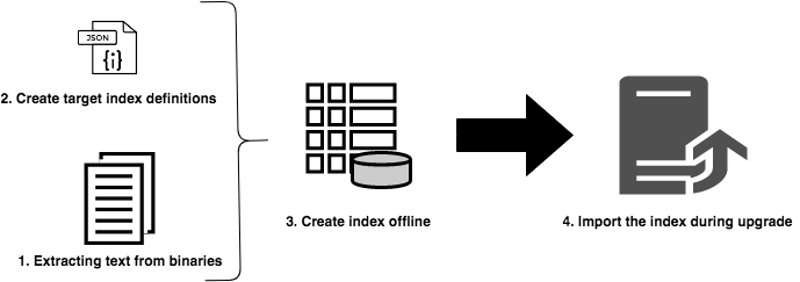
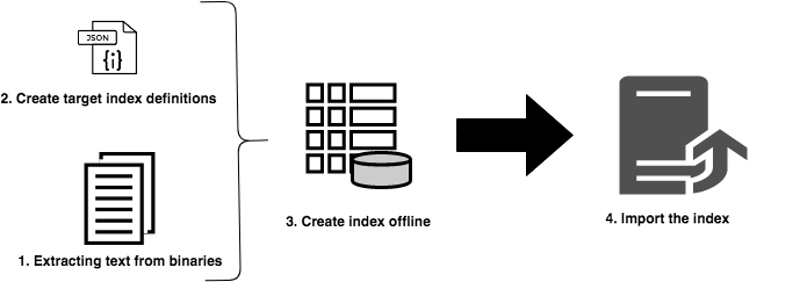
CQDOC-23065: Update the documentation related to Oak reindexing.

Changed region(s): [[0.6875, 0.7376, 1.0, 0.8227]]

diff --git a/help/sites-deploying/offline-reindexing.md b/help/sites-deploying/offline-reindexing.md
@@ -1,49 +1,47 @@
 ---
-title: Using Offline Reindexing To Reduce Downtime During an Upgrade
-description: Learn how to use offline reindexing methodology to reduce the system downtime when performing an AEM upgrade.
+title: Offline Reindexing for AEM
+description: Learn how to use offline reindexing methodology to improve system performance and reduce downtime when reindexing AEM repositories.
 contentOwner: sarchiz
 products: SG_EXPERIENCEMANAGER/6.5/SITES
-topic-tags: upgrading
+topic-tags: indexing, performance
 content-type: reference
-feature: Upgrading
+feature: Indexing
 solution: Experience Manager, Experience Manager Sites
 role: Admin
 exl-id: 0001c874-7468-4750-a377-03156674f4b9
 ---
-# Using Offline Reindexing To Reduce Downtime During an Upgrade {#offline-reindexing-to-reduce-downtime-during-upgrades}
+# Offline Reindexing for AEM {#offline-reindexing-for-aem}
 
 ## Introduction {#introduction}
 
-One of the key challenges in upgrading Adobe Experience Manager is the downtime associated with the author environment when an in-place upgrade is performed. Content authors will not be able to access the environment during an upgrade. Therefore it is desirable to minimize the amount of time it takes to perform the upgrade. For large repositories, especially AEM Assets projects, which typically have large data stores and a high level of asset uploads per hour, reindexing of Oak indexes takes a significant percentage of the upgrade time.
+For AEM Assets projects, which typically have large data stores and a high level of asset uploads, reindexing of Oak indexes can take a significant amount of time.
 
-This section describes how to use the Oak-run tool to reindex the repository **before** performing the upgrade, thus reducing the amount of downtime during the actual upgrade. The steps presented can be applied to [Lucene](https://jackrabbit.apache.org/oak/docs/query/lucene.html) indexes for versions AEM 6.4 and higher.
+This section describes how to use the Oak-run tool to perform offline reindexing. The steps presented can be applied to [Lucene](https://jackrabbit.apache.org/oak/docs/query/lucene.html) indexes for versions AEM 6.4 and higher.
 
 ## Overview {#overview}
 
-New versions of the AEM introduce changes to Oak index definitions as the feature set is expanded. Changes to the Oak indexes force reindexing when upgrading the AEM instance. Reindexing is expensive for asset deployments as text in assets (for example, text in pdf file) is extracted and indexed. With MongoMK repositories, data is persisted over the network, further increasing the amount of time reindexing takes.
-
-The problem most customers are facing during an upgrade is reducing the downtime window. The solution is to **skip** the reindexing activity during the upgrade. This can be achieved by creating the new indeces **prior** to performing the upgrade, then simply importing them during the upgrade.
+AEM repositories often require reindexing due to various reasons such as index definition changes, performance optimization, or after significant content changes. Reindexing is expensive for asset deployments as text in assets (for example, text in PDF files) is extracted and indexed. With MongoMK repositories, data is persisted over the network, further increasing the amount of time reindexing takes. The solution is to perform reindexing **offline** using the Oak-run tool, then import the pre-built indexes into the running AEM instance. This approach minimizes reindexing time and allows for better resource management.
 
 ## Approach {#approach}
 
 ![offline-reindexing-upgrade-text-extraction](assets/offline-reindexing-upgrade-process.png)
 
-The idea is to create the index before the upgrade, against the index definitions of the target AEM version using the [Oak-run](/help/sites-deploying/indexing-via-the-oak-run-jar.md) tool. The above diagram shows the offline reindexing approach.
+The idea is to create the indexes offline using the [Oak-run](/help/sites-deploying/indexing-via-the-oak-run-jar.md) tool, then import them into the running AEM instance. The above diagram shows the offline reindexing approach.
 
 In addition, this is the order of the steps as described in the approach:
 
 1. Text from binaries is extracted first
-2. Target index definitions are created
+2. Index definitions are created or updated
 3. Offline indexes are created
-4. The indexes are then imported during the upgrade process
+4. The indexes are then imported into the running AEM instance
 
 ### Text Extraction {#text-extraction}
 
-To enable full indexing in AEM, text from binaries such as PDF is extracted and added to the index. This is usually an expensive step in the indexing process. Text extraction is an optimization step advocated especially for reindexing asset repositories as they stores large number of binaries.
+To enable full indexing in AEM, text from binaries such as PDF is extracted and added to the index. This is usually an expensive step in the indexing process. Text extraction is an optimization step advocated especially for reindexing asset repositories as they store large numbers of binaries.
 
 ![offline-reindexing-upgrade-text-extraction](assets/offline-reindexing-upgrade-text-extraction.png)
 
-Text from binaries stored in the system can be extracted using thge oak-run tool with the tika library. A clone of the production systems can be taken before upgrade and can be used for this text extraction process. This process then creates the text store, by going through the following steps:
+Text from binaries stored in the system can be extracted using the oak-run tool with the tika library. A clone of the production system can be taken and used for this text extraction process. This process then creates the text store, by going through the following steps:
 
 **1. Traverse the repository and gather the details of binaries**
 
@@ -55,7 +53,7 @@ Execute the below command from the directory where you wish to create the index 
 java java -jar oak-run.jar tika <nodestore path> --fds-path <datastore path> --data-file text-extraction/oak-binary-stats.csv --generate
 ```
 
-Where `nodestore path` is the `mongo_ur` or `crx-quickstart/repository/segmentstore/`
+Where `nodestore path` is the `mongo_uri` or `crx-quickstart/repository/segmentstore/`
 
 Use the `--fake-ds-path=temp` parameter instead of `–fds-path` to speed up the process.
 
@@ -69,7 +67,7 @@ You can dump the existing index data using the following command:
 java -jar oak-run.jar index <nodestore path> --fds-path=<datastore path> --index-dump
 ```
 
-Where `nodestore path` is the `mongo_ur` or `crx-quickstart/repository/segmentstore/`
+Where `nodestore path` is the `mongo_uri` or `crx-quickstart/repository/segmentstore/`
 
 Then, use the above index dump to populate the store:
 
@@ -82,12 +80,15 @@ Where `oak-index-name` is the name of the full text index, for example, "lucene"
 **3. Run the text extraction process using the tika library for the binaries missed out in the above step**
 
 ```
-java -cp oak-run.jar:tika-app-1.21.jar org.apache.jackrabbit.oak.run.Main tika --data-file text-extraction/oak-binary-stats.csv --store-path text-extraction/store --fds-path <datastore path> extract
+java -cp oak-run.jar:tika-app-*.jar org.apache.jackrabbit.oak.run.Main tika --data-file text-extraction/oak-binary-stats.csv --store-path text-extraction/store --fds-path <datastore path> extract
 ```
+>[!NOTE]
+>
+>Use the same version of Tika as being used in AEM.
 
 Where `datastore path` is the path to the binary data store.
 
-The created text store can be updated and reused for reindexing scenarios in the future.
+The created text store can be updated and reused for future reindexing scenarios.
 
 For more details around the text extraction process, see the [Oak-run documentation](https://jackrabbit.apache.org/oak/docs/query/pre-extract-text.html).
 
@@ -95,15 +96,15 @@ For more details around the text extraction process, see the [Oak-run documentat
 
 ![offline-reindexing-upgrade-offline-reindexing](assets/offline-reindexing-upgrade-offline-reindexing.png)
 
-Create the Lucene index offline before the upgrade. If using MongoMK, it is recommended to run it directly on one of the MongoMk nodes, as this avoids network overhead.
+Create the Lucene index offline. If using MongoMK, it is recommended to run it directly on one of the MongoMK nodes, as this avoids network overhead.
 
-To create the index offline, follow the below steps:
+To create the index offline, follow the steps below:
 
-**1. Generate Oak Lucene index definitions for the target AEM version**
+**1. Generate Oak Lucene index definitions**
 
-Dump the existing index definitions. Index definitions which underwent change were generated using the Adobe Granite repository bundle of the target AEM version and oak-run.
+Dump the existing index definitions. Index definitions can be generated using the Adobe Granite repository bundle and oak-run.
 
-To dump the index definition from the **source** AEM instance, run this command: 
+To dump the index definition from the AEM instance, run this command: 
 
 >[!NOTE]
 >
@@ -113,9 +114,9 @@ To dump the index definition from the **source** AEM instance, run this command:
 java -jar oak-run.jar index --fds-path <datastore path> <nodestore path> --index-definitions
 ```
 
-Where `datastore path` and `nodestore path` are from the **source** AEM instance.
+Where `datastore path` and `nodestore path` are from the AEM instance.
 
-Then, generate index definitions from the **target** AEM version using target version's Granite repository bundle.
+Then, generate index definitions using the appropriate Granite repository bundle.
 
 ```
 java -cp oak-run.jar:bundle-com.adobe.granite.repository.jar org.apache.jackrabbit.oak.index.IndexDefinitionUpdater --in indexing-definitions_source.json --out merge-index-definitions_target.json --initializer com.adobe.granite.repository.impl.GraniteContent
@@ -125,11 +126,11 @@ java -cp oak-run.jar:bundle-com.adobe.granite.repository.jar org.apache.jackrabb
 >
 >The above index definition creation process is supported only from the `oak-run-1.12.0` version onwards. Targeting is done using the Granite repository bundle `com.adobe.granite.repository-x.x.xx.jar`.
 
-The above steps create a JSON file called `merge-index-definitions_target.json` which is the index definition.
+The above steps create a JSON file called `merge-index-definitions_target.json` which contains the index definition.
 
 **2. Create a checkpoint in the repository**
 
-Create a checkpoint in the production **source** AEM instance with a long lifetime. This should be done before cloning the repository.
+Create a checkpoint in the production AEM instance with a long lifetime. This should be done before cloning the repository.
 
 Via JMX console located at `http://serveraddress:serverport/system/console/jmx`, go to `CheckpointMBean` and create a checkpoint with a long enough lifetime (for example, 200 days). For this, invoke `CheckpointMBean#createCheckpoint` with `17280000000` as the argument for the lifetime duration in milliseconds.
 
@@ -141,9 +142,9 @@ Once this is done, copy the newly created checkpoint id and validate the lifetim
 
 For more details, consult [checkpoint creation](https://jackrabbit.apache.org/oak/docs/query/oak-run-indexing.html#out-of-band-create-checkpoint) from the Oak documentation.
 
-**Perform offline indexing for the generated index definitions**
+**3. Perform offline indexing for the generated index definitions**
 
-Lucene reindexing can be done offline using oak-run. This process creates index data in the disk under `indexing-result/indexes`. It does **not** write to the repository and thus does not require stopping the running AEM instance. The created text store is fed into this process:
+Lucene reindexing can be done offline using oak-run. This process creates index data on disk under `indexing-result/indexes`. It does **not** write to the repository and thus does not require stopping the running AEM instance. The created text store is fed into this process:
 
 ```
 java -Doak.indexer.memLimitInMB=500 -jar oak-run.jar index <nodestore path> --reindex --doc-traversal-mode --checkpoint <checkpoint> --fds-path <datastore path> --index-definitions-file merge-index-definitions_target.json --pre-extracted-text-dir text-extraction/store
@@ -162,7 +163,7 @@ Additional technical details can be found in the [oak-run documentation for inde
 
 ### Importing indexes {#importing-indexes}
 
-With AEM 6.4 and newer versions, AEM has the built in capability to import indexes from disc on startup sequence. The folder `<repository>/indexing-result/indexes` is watched for the presence of index data during startup. You can copy the pre-created index into the above location during the [upgrade process](in-place-upgrade.md#performing-the-upgrade) before starting with the new version of the **target** AEM jar. AEM imports it into the repository and removes the corresponding checkpoint from the system. Thus a reindex is completely avoided.
+With AEM 6.4 and newer versions, AEM has the built-in capability to import indexes from disk during the startup sequence. The folder `<repository>/indexing-result/indexes` is watched for the presence of index data during startup. You can copy the pre-created index into the above location before starting the AEM instance. AEM imports it into the repository and removes the corresponding checkpoint from the system. Thus a reindex is completely avoided.
 
 ## Additional Tips and Troubleshooting {#troubleshooting}
 
@@ -174,7 +175,7 @@ It is recommended to clone the production system and create the offline index us
 
 ### Prepare a Runbook and Trial Run {#prepare-a-runbook-and-trial-run}
 
-It is recommended to prepare a [runbook](/help/sites-deploying/upgrade-planning.md#building-the-upgrade-and-rollback-runbook) and perform a few trials before running the upgrade in production.
+It is recommended to prepare a runbook and perform a few trials before running the reindexing process in production.
 
 ### Doc Traversal Mode With Offline Indexing {#doc-traversal-mode-with-offline-indexing}
 

diff --git a/help/main-toc/TOC.md b/help/main-toc/TOC.md
@@ -1408,6 +1408,7 @@ user-guide-title: AEM 6.5 LTS
         + [Configuring node stores and data stores in AEM 6](/help/sites-deploying/data-store-config.md)
         + [Revision Cleanup](/help/sites-deploying/revision-cleanup.md)
         + [Oak Queries and Indexing](/help/sites-deploying/queries-and-indexing.md)
+        + [Offline Reindexing for AEM](/help/sites-deploying/offline-reindexing)
         + [How to Run AEM with TarMK Cold Standby](/help/sites-deploying/tarmk-cold-standby.md)
         + [Indexing via the Oak-run Jar](/help/sites-deploying/indexing-via-the-oak-run-jar.md)
         + [Oak-run.jar Indexing Use Cases](/help/sites-deploying/oak-run-indexing-usecases.md)
@@ -1439,7 +1440,6 @@ user-guide-title: AEM 6.5 LTS
         + [Backward Compatibility in AEM 6.5 LTS](/help/sites-deploying/backward-compatibility.md)
         + [Upgrade Procedure](/help/sites-deploying/upgrade-procedure.md)
         + [Performing an In-Place Upgrade](/help/sites-deploying/in-place-upgrade.md)
-        + [Using Offline Reindexing To Reduce Downtime During an Upgrade](/help/sites-deploying/upgrade-offline-reindexing.md)
         + [Lazy Content Migration](/help/sites-deploying/lazy-content-migration.md)
         + [Using the CRX2Oak Migration Tool](/help/sites-deploying/using-crx2oak.md)
         + [AEM 6.5 to AEM 6.5 LTS Content Migration Using Oak-upgrade](/help/sites-deploying/aem-65-to-aem-65lts-content-migration-using-oak-upgrade.md)

diff --git a/help/sites-deploying/in-place-upgrade.md b/help/sites-deploying/in-place-upgrade.md
@@ -17,8 +17,6 @@ exl-id: c7351625-b29e-45a7-b966-e7c0f56d4f22
 
 Before executing your upgrade, there are several steps that must be completed. See [Upgrading Code and Customizations](/help/sites-deploying/upgrading-code-and-customizations.md) and [Pre-Upgrade Maintenance Tasks](/help/sites-deploying/pre-upgrade-maintenance-tasks.md) for more information. Additionally, make sure that your system meets the [requirements for AEM 6.5 LTS](/help/sites-deploying/technical-requirements.md) and see [upgrade planning considerations](/help/sites-deploying/upgrade-planning.md) and how [Analyzer](/help/sites-deploying/pattern-detector.md) can help you estimate the complexity.
 
-<!--Finally, the downtime during the upgrade can be significally reduced by indexing the repository **before** performing the upgrade. For more information, see [Using Offline Reindexing To Reduce Downtime During an Upgrade](/help/sites-deploying/upgrade-offline-reindexing.md)-->
-
 ## Migration Prerequisites {#migration-prerequisites}
 
 * **Minimum Required Java version:** Make sure you have Oracle's Java&trade; 17/21 installed on your system.

diff --git a/help/sites-deploying/upgrade-procedure.md b/help/sites-deploying/upgrade-procedure.md
@@ -20,12 +20,6 @@ exl-id: 255ef365-0da5-4bc9-b099-2e3bc67dd25a
 
 When upgrading your AEM environments, you must consider the differences in approach between upgrading author environments or publish environments to minimize downtime for both you authors and end users. This page outlines the high-level procedure for upgrading an AEM topology currently running on a version of AEM 6.x. Because the process differs between author and publish tiers and Mongo and TarMK based deployments, each tier and microkernel has been listed in a separate section. When executing your deployment, Adobe recommends first upgrading your author environment, determining success, and then proceeding to the publish environments.
 
-<!--
->[!IMPORTANT]
->
->The downtime during the upgrade can be significally reduced by indexing the repository before performing the upgrade. For more information, see [Using Offline Reindexing To Reduce Downtime During an Upgrade](/help/sites-deploying/upgrade-offline-reindexing.md)
--->
-
 ## TarMK Author Tier {#tarmk-author-tier}
 
 ### Starting Topology {#starting-topology}

diff --git a/help/sites-deploying/aem-65-to-aem-65lts-content-migration-using-oak-upgrade.md b/help/sites-deploying/aem-65-to-aem-65lts-content-migration-using-oak-upgrade.md
@@ -81,6 +81,6 @@ The easiest way to fix this issue is specifying the source datastore in the comm
 
 The warning may also be ignored, but in this case the repository will be fully reindexed on the first startup. It may be a long process, especially for the big instance. Repository won't be usable until the reindexing process is done. Use the `--skip-checkpoints` option to suppress the warning.
 
-You can also offline reindex the repository before starting AEM using [offline reindexing](/help/sites-deploying/upgrade-offline-reindexing.md) avoid full reindexing on first startup.
+You can also offline reindex the repository before starting AEM using [offline reindexing](/help/sites-deploying/offline-reindexing.md) avoid full reindexing on first startup.
 
 For more information on the oak-upgrade tool and advanced usage, refer to the [official documentation](https://jackrabbit.apache.org/oak/docs/migration.html).

diff --git a/help/sites-deploying/upgrade.md b/help/sites-deploying/upgrade.md
@@ -27,7 +27,7 @@ This section covers upgrading an AEM installation to AEM 6.5 LTS:
 * [Planning Your Upgrade](/help/sites-deploying/upgrade-planning.md)
 * [Assessing the Upgrade Complexity with Pattern Detector](/help/sites-deploying/pattern-detector.md)
 * [Backward Compatibility in AEM 6.5](/help/sites-deploying/backward-compatibility.md)
-  This was drafted before: * [Using Offline Reindexing To Reduce Downtime During an Upgrade](/help/sites-deploying/upgrade-offline-reindexing.md)-->
+-->
 
 <!--
 * [Upgrade Procedure](/help/sites-deploying/upgrade-procedure.md)
